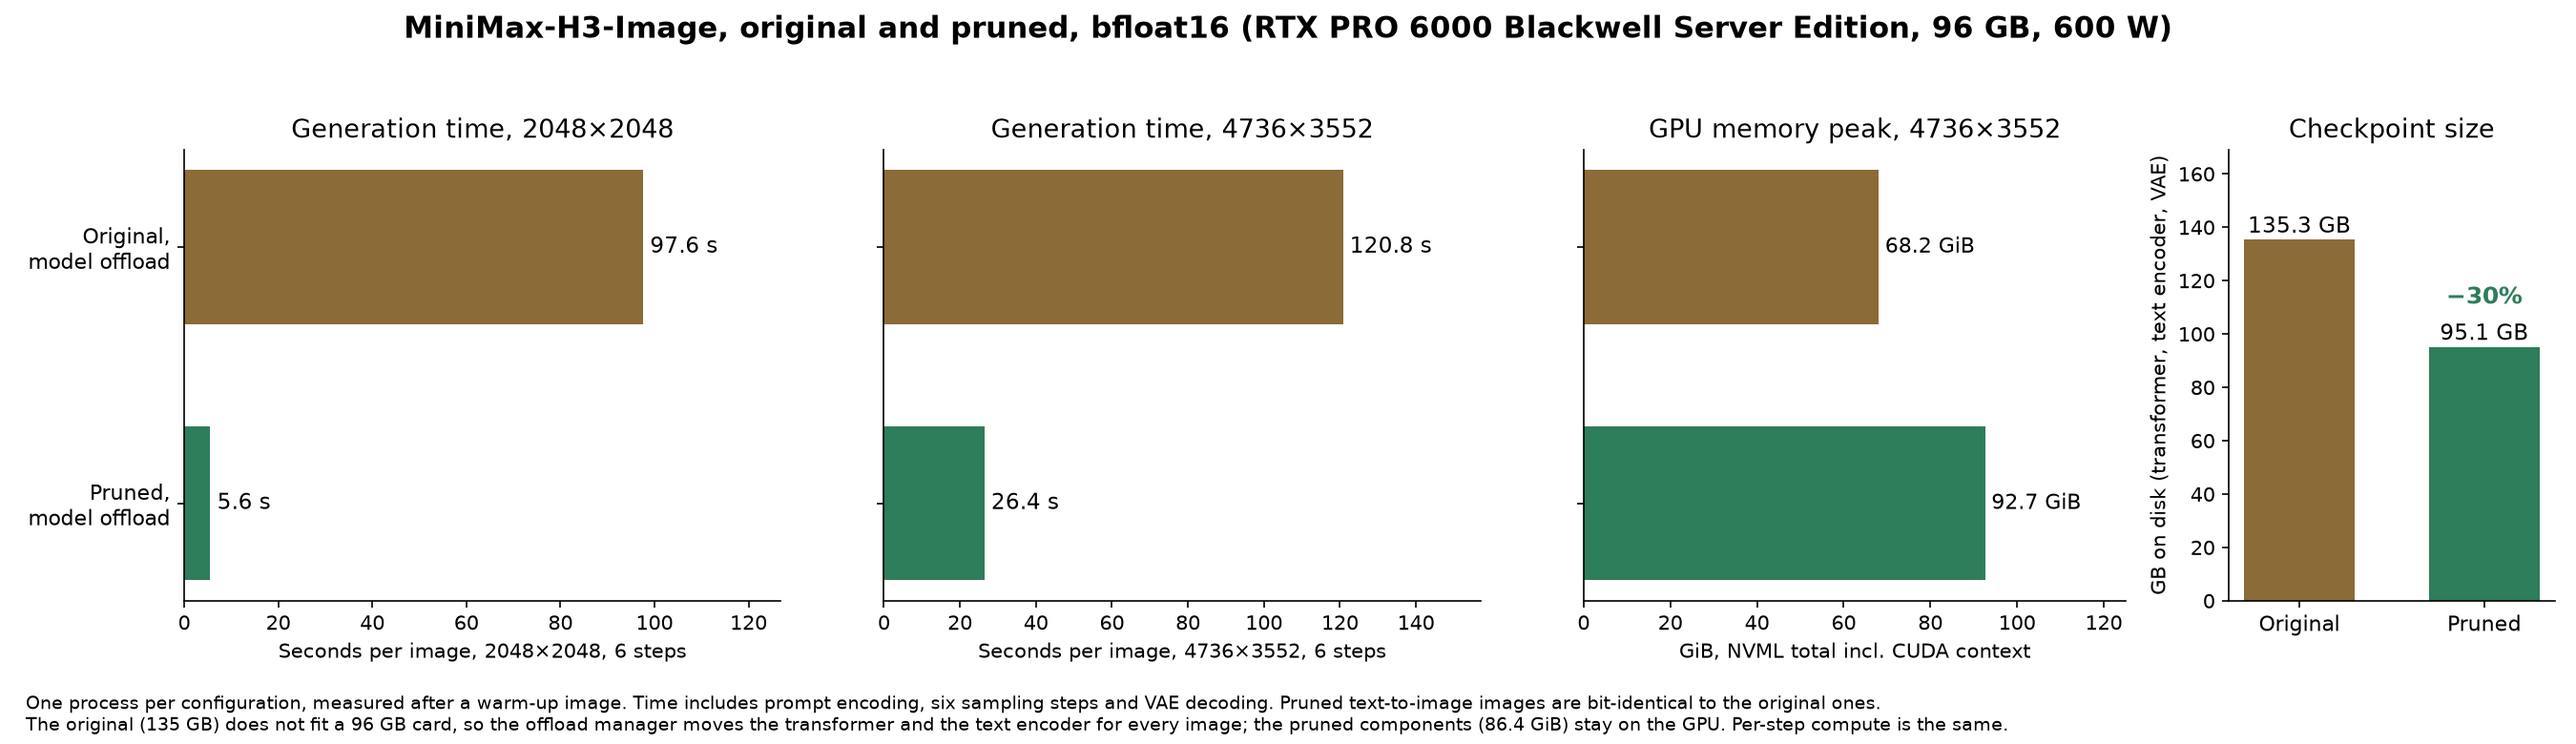
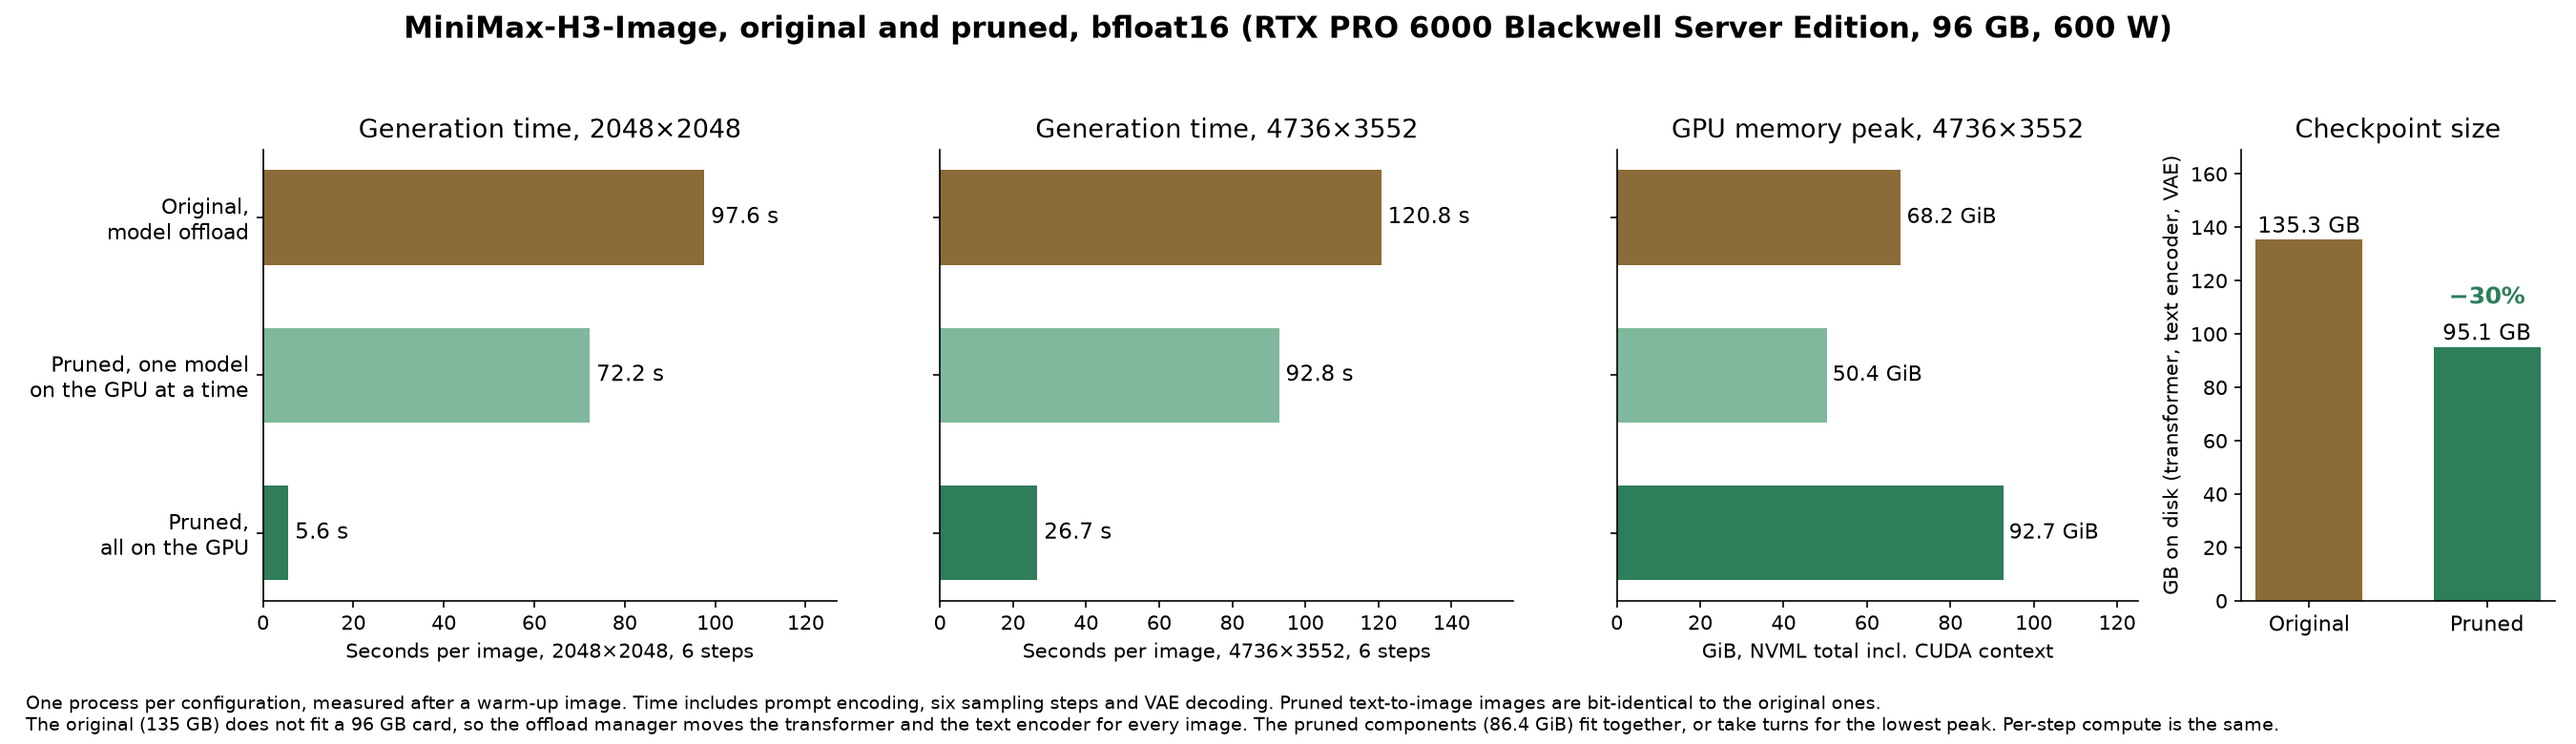
One-model-at-a-time offload mode in generate.py and verify.py; measured profile in README and chart
ComponentsManager resets the offload strategy when components are added, so the scripts set it after
load_components. Measured on the same RTX PRO 6000 as the other rows: 72.2 s at 2048x2048, 92.8 s at
4736x3552, 50.4 GiB peak; images bit-identical to the all-on-GPU run.

diff --git a/scripts/verify.py b/scripts/verify.py
@@ -1,14 +1,20 @@
 """Check the pruned MiniMax-H3-Image against the original release, and time both.
 
     python verify.py reference --source ./MiniMax-H3-Image --work ./verify
-    python verify.py pruned --source ./MiniMax-H3-Image --pruned ./MiniMax-H3-Image-Pruned --work ./verify [--resident]
+    python verify.py pruned --source ./MiniMax-H3-Image --pruned ./MiniMax-H3-Image-Pruned --work ./verify \
+        [--offload auto|one-model|none]
     python verify.py compare --work ./verify
 
 `reference` runs the official Modular Diffusers pipeline (bfloat16, auto CPU offload) on the cases below and records
-every transformer call. `pruned` loads the pruned checkpoint with the same stock classes, runs the same cases and feeds
-the recorded calls to the pruned transformer. `compare` reports, per case: whether the text conditioning, the
-transformer outputs and the images are bit-identical (and how far they differ when they are not), and the time and
-GPU memory of each run.
+every transformer call. `pruned` loads the pruned checkpoint with the same stock classes, runs the same cases and, with
+the default offload, feeds the recorded calls to the pruned transformer.
+
+`compare` reports, per case: whether the text conditioning, the transformer outputs and the images are bit-identical
+(and how far they differ when they are not), and the time and GPU memory of each run.
+
+Offload modes (`ComponentsManager`): `auto` is the stock strategy, which moves a model off the GPU only when the next
+one does not fit, so on a 96 GB card the pruned models all stay on the GPU. `one-model` moves every other model off the
+GPU before the next one loads (the lowest peak). `none` puts every component on the GPU.
 """
 
 from __future__ import annotations
@@ -43,10 +49,7 @@ def log(**kw):
 
 
 class Peak:
-    """Whole-GPU memory peak from NVML, sampled every 50 ms.
-
-    Polling every 5 ms slowed the Qwen3-VL vision tower (many small kernels) by seconds on driver 615.
-    """
+    """Whole-GPU memory peak from NVML, sampled every 50 ms in a background thread."""
 
     def __init__(self, index=0):
         import pynvml
@@ -160,19 +163,27 @@ def reference(args):
     print("REFERENCE_DONE", flush=True)
 
 
-def load_stock(path: Path, resident: bool):
+def offload_others(hooks, model_id, model, execution_device):
+    """`ComponentsManager` offload strategy: move every other model off the GPU before the next one loads."""
+    return hooks
+
+
+def load_stock(path: Path, offload: str):
     """The checkpoint at `path` in the stock `ModularPipeline`, as the official card loads the original."""
     from diffusers import ComponentsManager, ModularPipeline
 
     manager = ComponentsManager()
-    if not resident:
+    if offload in ("auto", "one-model"):
         manager.enable_auto_cpu_offload(device="cuda")
     pipe = ModularPipeline.from_pretrained(str(path), components_manager=manager)
     pipe.load_components(dtype=torch.bfloat16, pretrained_model_name_or_path=str(path))
+    if offload == "one-model":
+        # Set after loading: adding a component re-enables offloading with the default strategy.
+        manager.set_offload_strategy(offload_others)
     for name in ("transformer", "text_encoder", "vae", "tokenizer", "processor", "scheduler"):
         if getattr(pipe, name, None) is None:
             raise RuntimeError(f"{name} did not load")
-    if resident:
+    if offload == "none":
         pipe.to("cuda")
     return pipe
 
@@ -195,14 +206,15 @@ def transformer_check(transformer, ref_dir: Path):
 
 
 def pruned(args):
-    pipe = load_stock(args.pruned, args.resident)
-    label = "pruned-resident" if args.resident else "pruned"
+    offload = "none" if args.resident else args.offload
+    pipe = load_stock(args.pruned, offload)
+    label = {"auto": "pruned", "one-model": "pruned-one-model", "none": "pruned-resident"}[offload]
     log(loaded=label, transformer=type(pipe.transformer).__name__,
         time_embed_dim=pipe.transformer.config.time_embed_dim,
         te_layers=pipe.text_encoder.config.text_config.num_hidden_layers)
-    cases = CASES if not args.resident else [c | {"capture": False} for c in CASES]
+    cases = CASES if offload == "auto" else [c | {"capture": False} for c in CASES]
     run_cases(pipe, args.source or args.pruned, args.work / label, cases, label)
-    if not args.resident:
+    if offload == "auto":
         rows = transformer_check(pipe.transformer, args.work / "reference")
         (args.work / "transformer_check.json").write_text(json.dumps(rows, indent=1))
         log(transformer_check={"calls": len(rows), "identical": sum(r["identical"] for r in rows)})
@@ -231,7 +243,7 @@ def compare(args):
     ref = args.work / "reference"
     result = {"images": {}, "conditioning": {}, "runs": []}
     for case in CASES:
-        for label in ("pruned", "pruned-resident"):
+        for label in ("pruned", "pruned-one-model", "pruned-resident"):
             got = args.work / label / f"{case['id']}.png"
             if got.exists() and (ref / f"{case['id']}.png").exists():
                 result["images"][f"{label}/{case['id']}"] = image_diff(ref / f"{case['id']}.png", got)
@@ -259,7 +271,9 @@ def main():
     ap.add_argument("--source", type=Path, help="local MiniMaxAI/MiniMax-H3-Image (prompts, reference image)")
     ap.add_argument("--pruned", type=Path)
     ap.add_argument("--work", type=Path, required=True)
-    ap.add_argument("--resident", action="store_true", help="pruned: keep every component on the GPU (no offload)")
+    ap.add_argument("--offload", choices=["auto", "one-model", "none"], default="auto",
+                    help="pruned: ComponentsManager offload mode (see above)")
+    ap.add_argument("--resident", action="store_true", help="pruned: same as --offload none")
     args = ap.parse_args()
     {"reference": reference, "pruned": pruned, "compare": compare}[args.mode](args)
 

diff --git a/scripts/generate.py b/scripts/generate.py
@@ -21,19 +21,27 @@ ap.add_argument("--image", action="append", default=[], help="reference image (r
 ap.add_argument("--size", default="2048x2048", help="WIDTHxHEIGHT of the returned image")
 ap.add_argument("--seed", type=int, default=42)
 ap.add_argument("--repo", default="WaveCut/MiniMax-H3-Image-Pruned", help="Hub repository or local folder")
-ap.add_argument("--resident", action="store_true", help="keep every component on the GPU (about 95 GB)")
+ap.add_argument("--offload", choices=["auto", "one-model", "none"], default="auto",
+                help="auto: move a model off the GPU only when the next one does not fit; one-model: only one model on "
+                     "the GPU at a time (lowest peak, slower); none: every component on the GPU (about 95 GB)")
+ap.add_argument("--resident", action="store_true", help="same as --offload none")
 ap.add_argument("--out", default="image.png")
 args = ap.parse_args()
 
+offload = "none" if args.resident else args.offload
 manager = ComponentsManager()
-if not args.resident:
+if offload in ("auto", "one-model"):
     manager.enable_auto_cpu_offload(device="cuda")
 pipe = ModularPipeline.from_pretrained(args.repo, components_manager=manager)
 load_kwargs = {"dtype": torch.bfloat16}
 if Path(args.repo).is_dir():  # a local copy: its modular_model_index.json still names the Hub repository
     load_kwargs["pretrained_model_name_or_path"] = args.repo
 pipe.load_components(**load_kwargs)
-if args.resident:
+if offload == "one-model":
+    # Every other model leaves the GPU before the next one loads. Set after loading: adding a component
+    # re-enables offloading with the default strategy.
+    manager.set_offload_strategy(lambda hooks, **kwargs: hooks)
+if offload == "none":
     pipe.to("cuda")
 
 prompt = args.prompt if args.prompt is not None else args.prompt_file.read_text().strip()

diff --git a/README.md b/README.md
@@ -12,12 +12,15 @@ this repository.
 | Transformer | 66.3 GB | 40.2 GB |
 | Text encoder | 66.7 GB | 52.5 GB |
 | VAE | 2.3 GB | 2.3 GB |
-| Time per 4736×3552 image, RTX PRO 6000 (96 GB) | 120.8 s (model offload) | 26.4 s |
+| Time per 4736×3552 image, RTX PRO 6000 (96 GB) | 120.8 s (model offload, 68.2 GiB peak) | 26.7 s (all on the GPU, 92.7 GiB peak); 92.8 s (one model on the GPU at a time, 50.4 GiB peak) |
 | Text-to-image results | | bit-identical |
 | Edit results | | not bit-identical; PSNR 43.3 dB on the test edit |
 
 The time difference comes from memory: the original does not fit a 96 GB card and the offload manager moves the
-transformer and the text encoder for every image; the pruned models fit together. Per-step compute is unchanged.
+transformer and the text encoder for every image; the pruned models fit together. With one model on the GPU at a time
+the pruned checkpoint also moves both models for every image, with 30 % less data and a 50.4 GiB peak. Per-step
+compute is unchanged. All numbers come from one machine; see the
+[model card](https://huggingface.co/WaveCut/MiniMax-H3-Image-Pruned#profiles) for 2048×2048 and edit times.
 
 ## What is removed
 
@@ -88,6 +91,22 @@ image = pipe(
 
 Edit: pass `image=reference` (or a list) and refer to the references as `<Picture 1>`, `<Picture 2>`, ... in the
 prompt. `scripts/generate.py` wraps both and uses only Diffusers and Transformers.
+
+### Memory modes
+
+`enable_auto_cpu_offload` moves a model off the GPU only when the next one does not fit. On a 96 GB card the pruned
+models fit together, so after the first image nothing moves and the run is as fast as with everything on the GPU
+(peak 92.7 GiB). For the lowest peak, keep one model on the GPU at a time; set the strategy after loading, because
+adding the components resets it to the default:
+
+```python
+pipe.load_components(dtype=torch.bfloat16)
+manager.set_offload_strategy(lambda hooks, **kwargs: hooks)  # move every other model off the GPU first
+```
+
+The peak is then 50-52 GiB, set by the text encoder (48.9 GiB of weights), and each image moves both models over
+PCIe: 72.2 s at 2048×2048 instead of 5.6 s on an RTX PRO 6000. The images are bit-identical to the all-on-GPU ones.
+`scripts/generate.py --offload one-model` and `scripts/verify.py pruned --offload one-model` use this mode.
 
 The components also load on their own with the stock classes:
 
